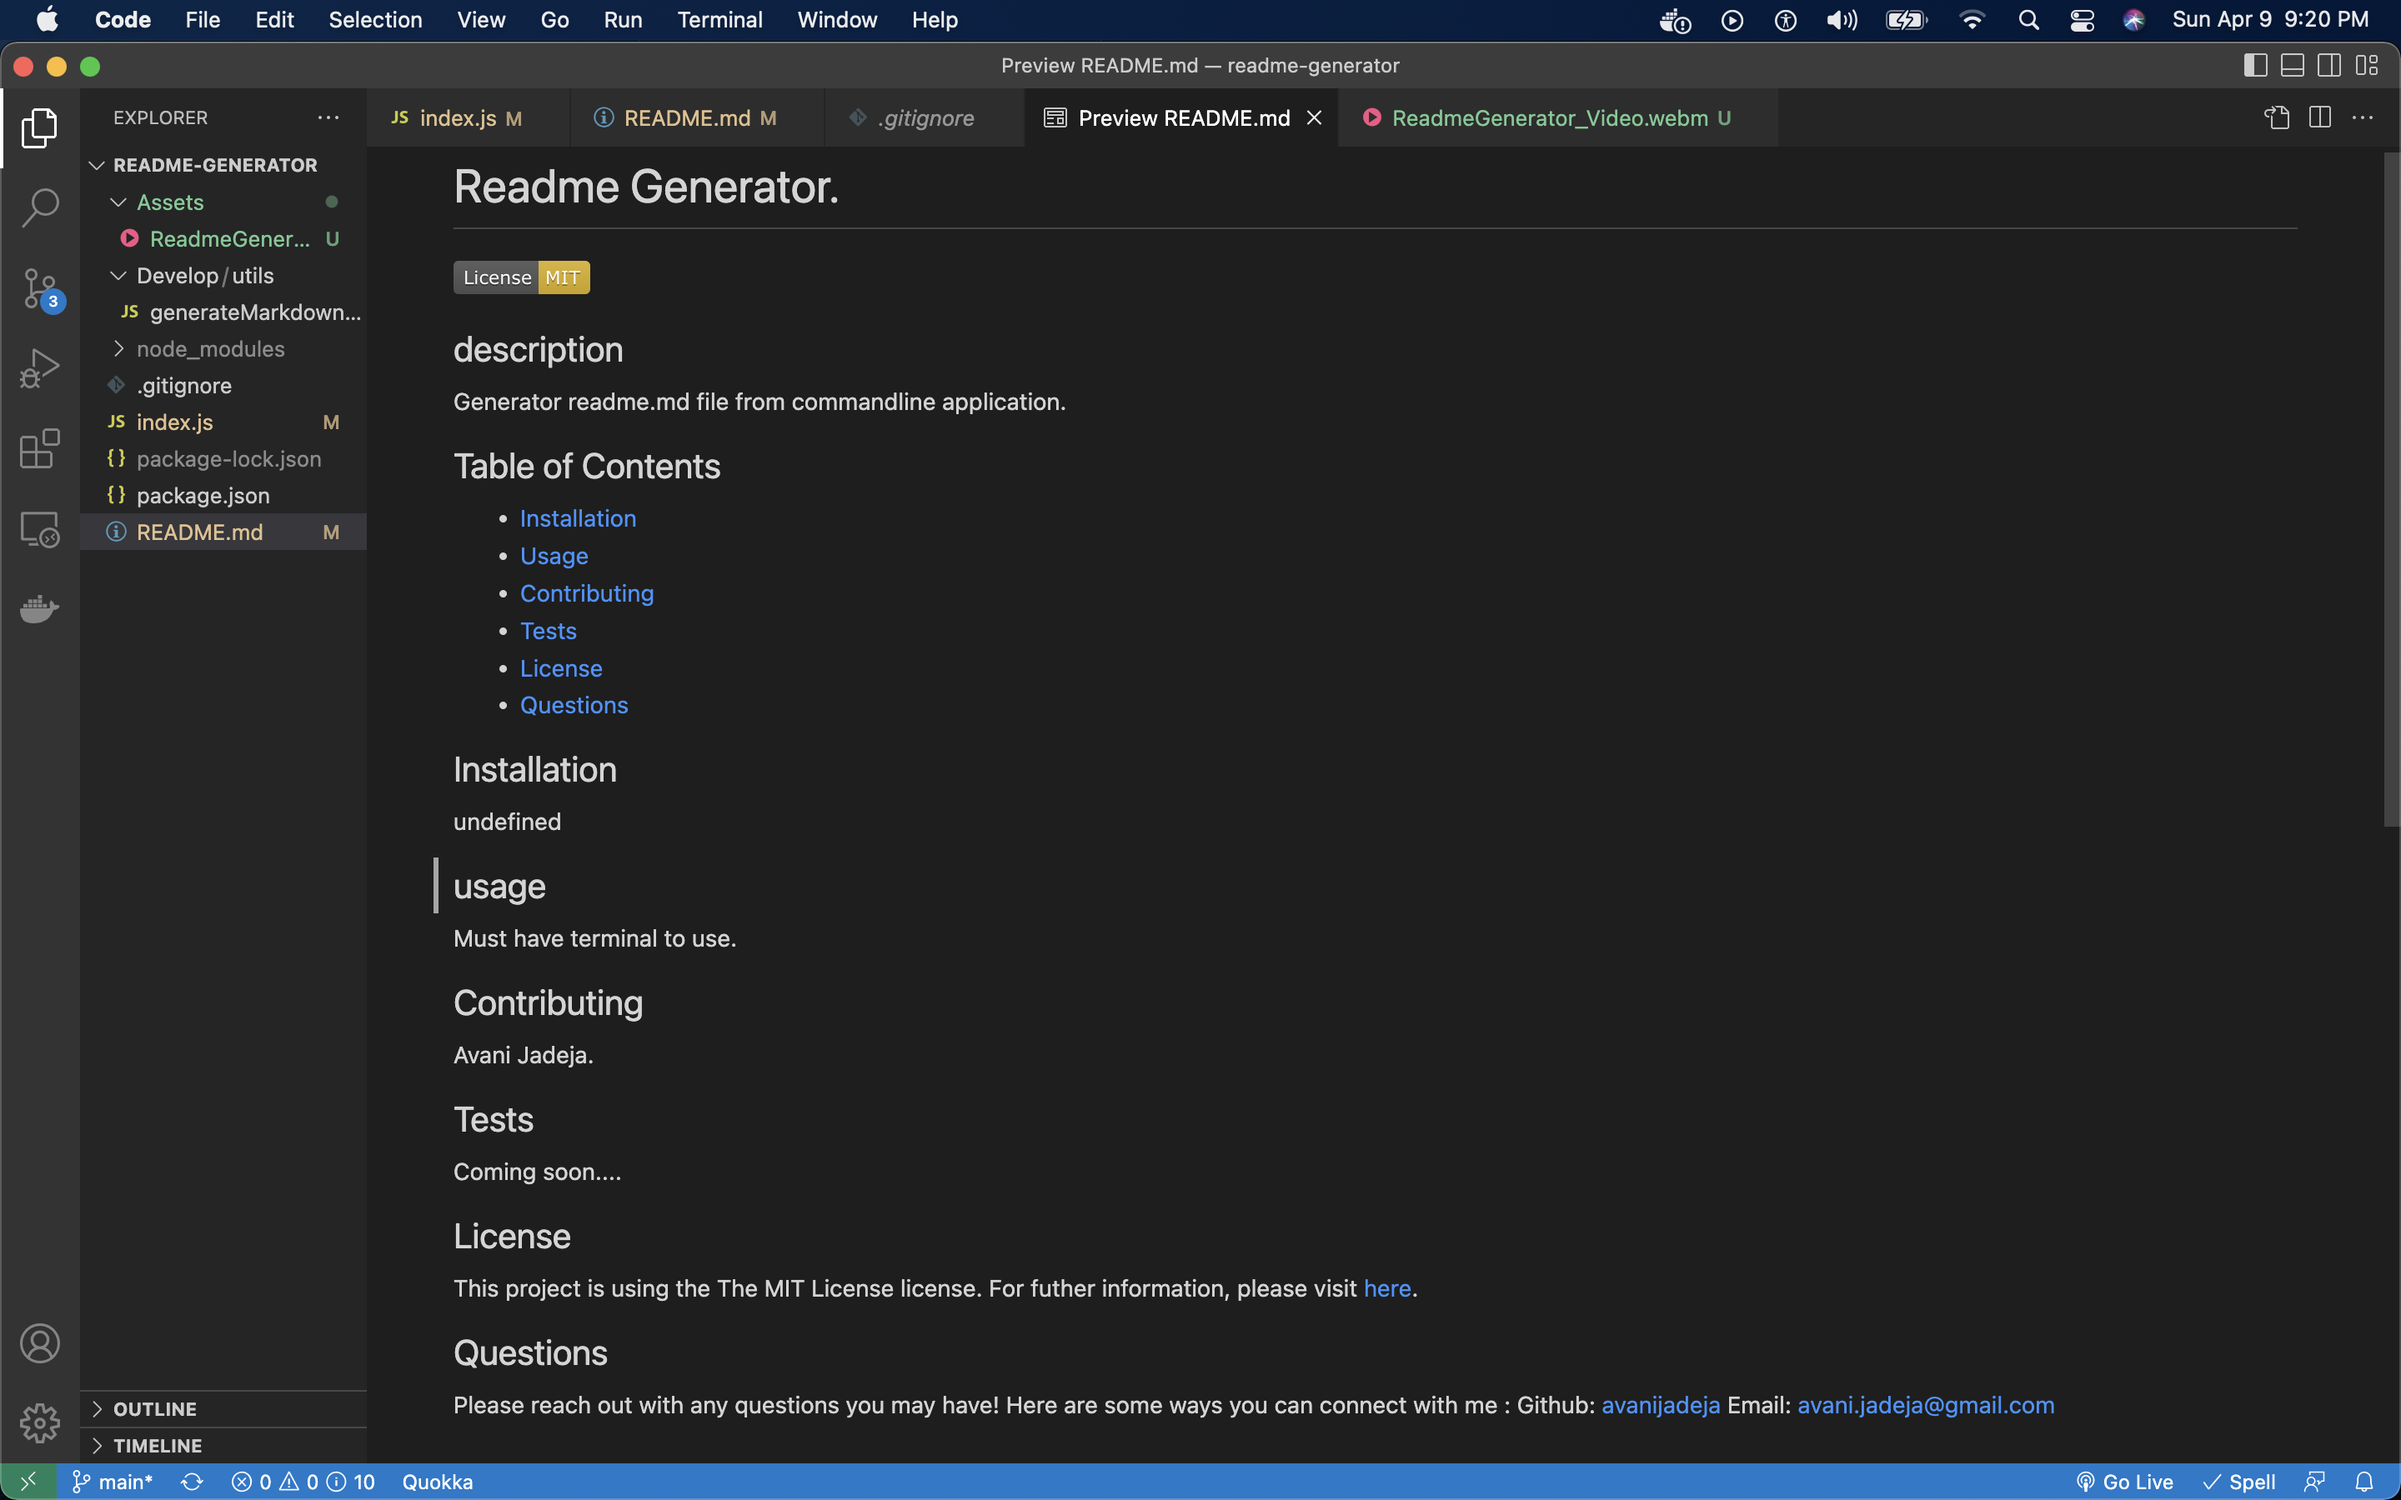
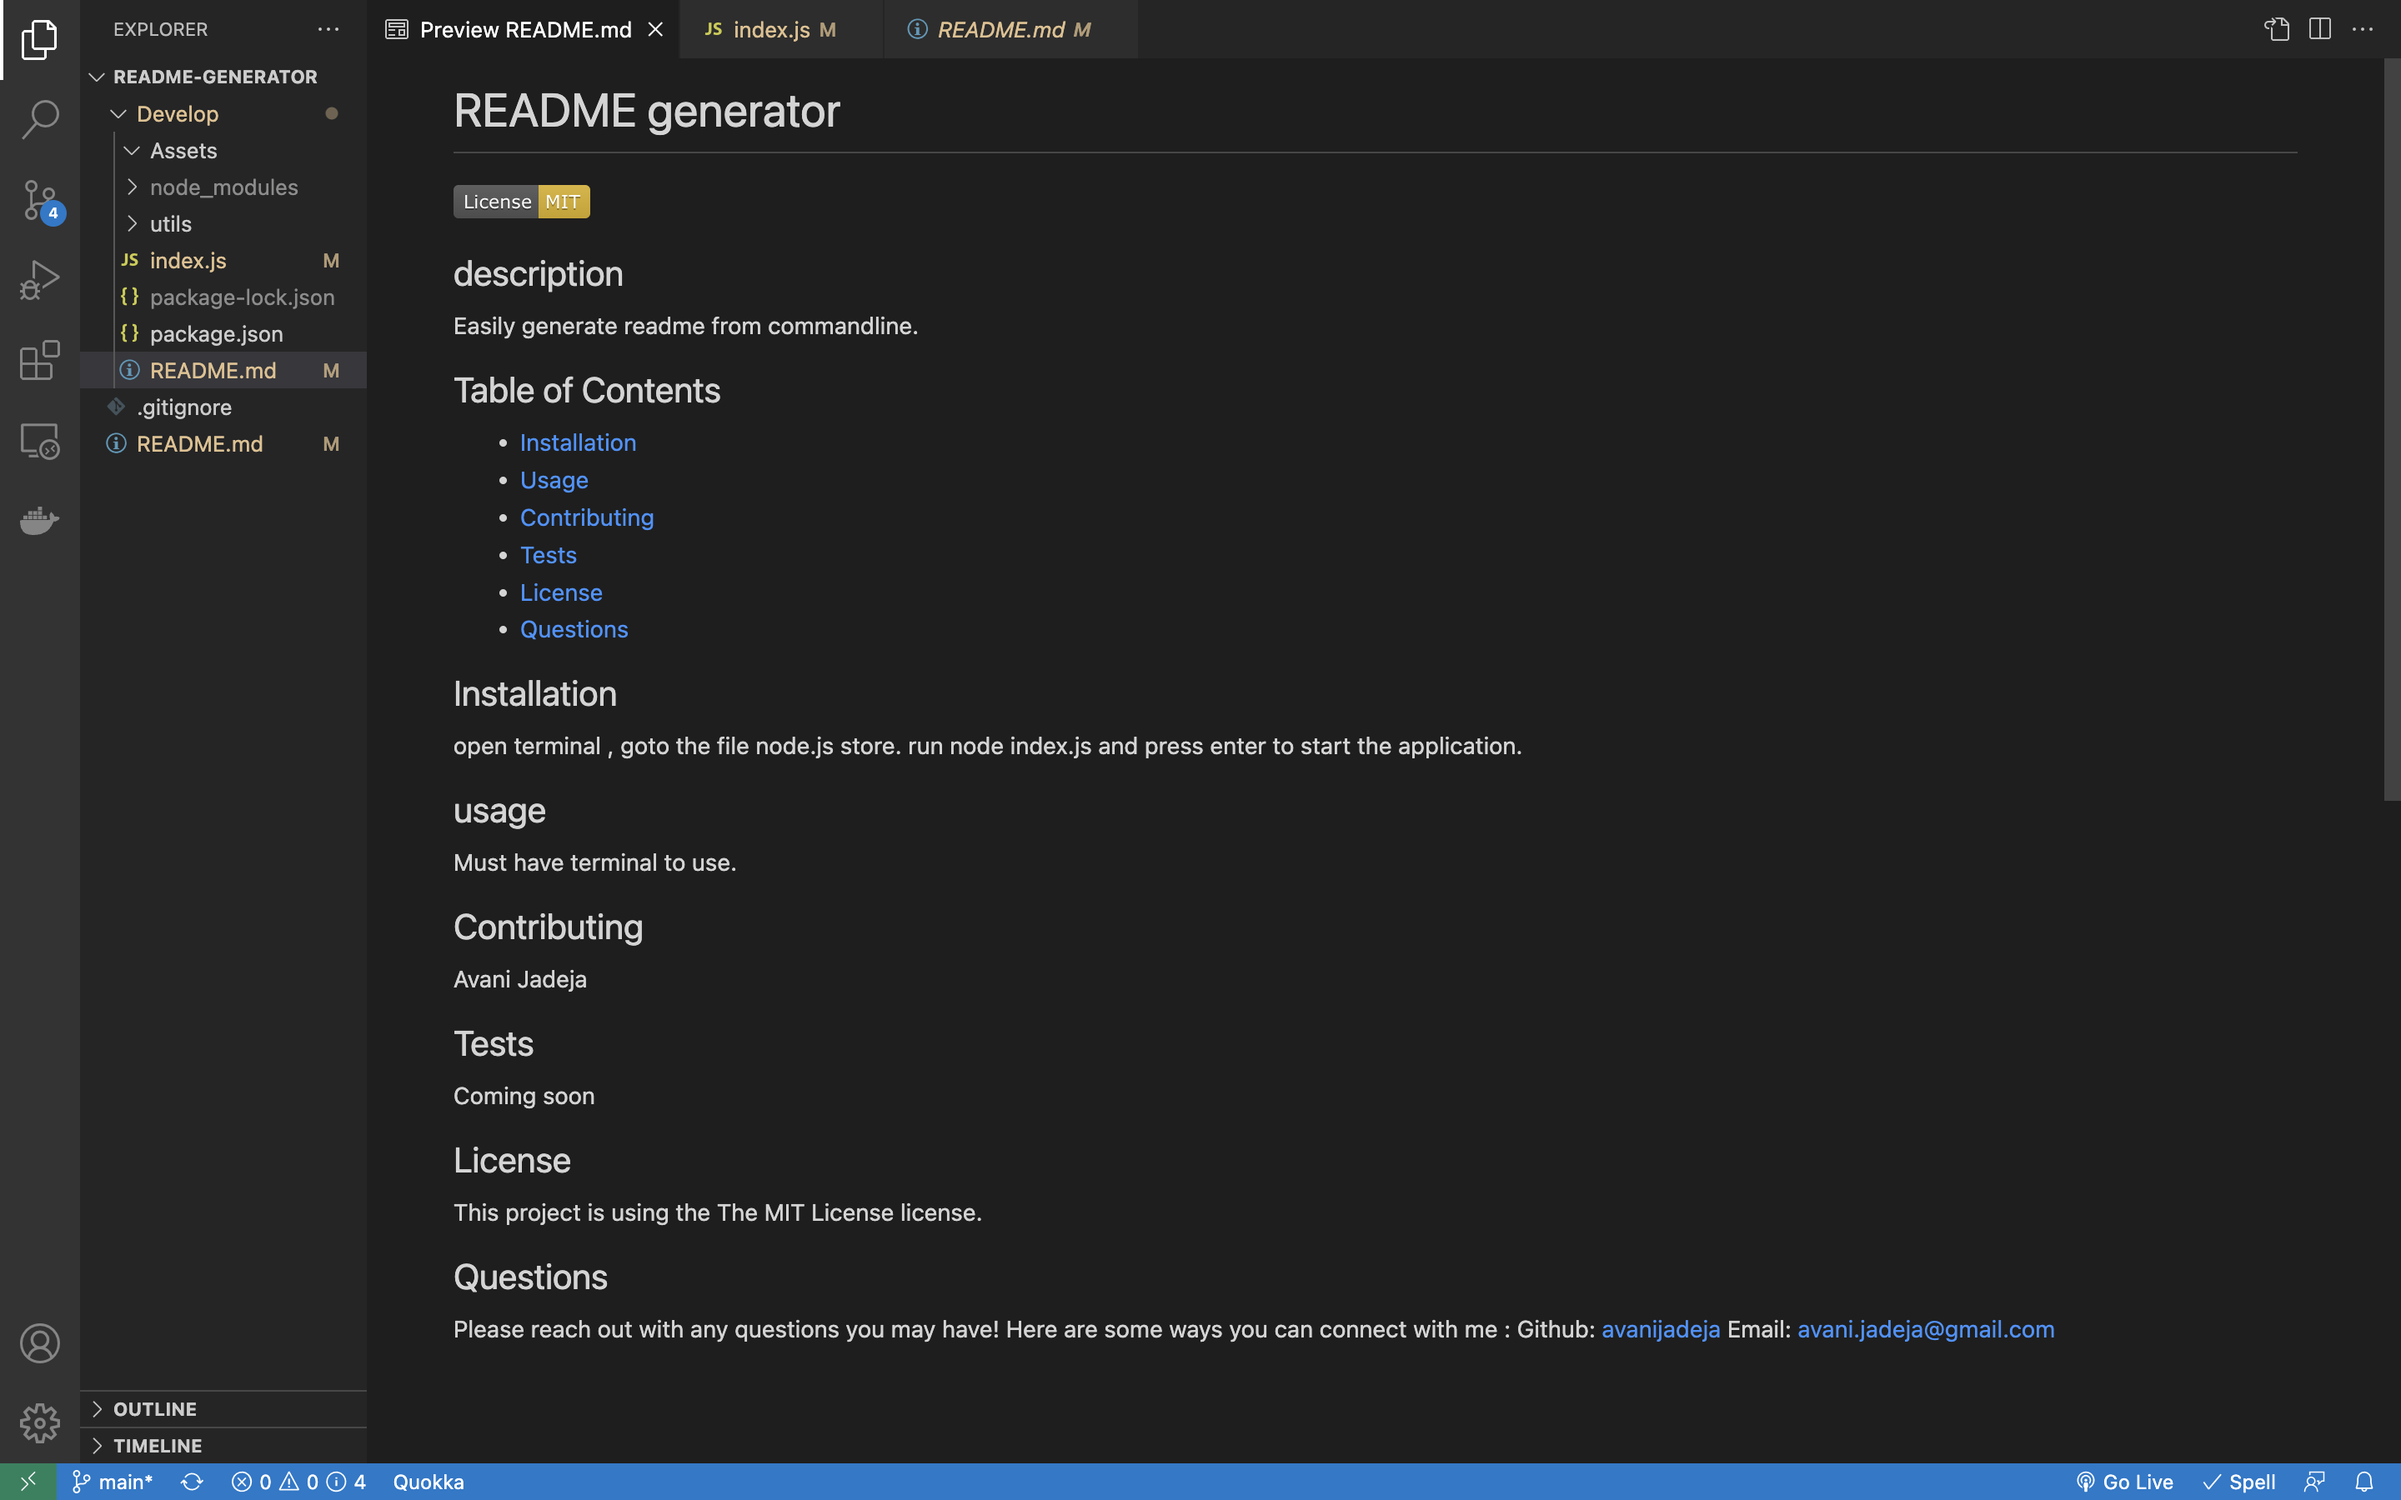
Add description to  Main readme file

diff --git a/Develop/index.js b/Develop/index.js
@@ -102,7 +102,7 @@ ${response.credits}
 ## Tests
 ${response.test}
 ## License
-This project is using the ${response.license} license. For futher information, please visit [here](https://choosealicense.com/license/).
+This project is using the ${response.license} license.
 ## Questions
 Please reach out with any questions you may have!
 Here are some ways you can connect with me :

diff --git a/README.md b/README.md
@@ -1,0 +1,41 @@
+# Professional README Generator
+
+## Description
+When creating an open source project on GitHub, it’s important to have a high-quality README for the app. This should include what the app is for, how to use the app, how to install it, how to report issues, and how to make contributions—this last part increases the likelihood that other developers will contribute to the success of the project.You can quickly and easily generate a README file by using a command-line application to generate one. This allows the project creator to devote more time working on the project.So, In this project I create a command-line application that dynamically generates a professional README.md file from a user's input using the Inquirer package.I use inquirer@8.2.4 in this project.
+
+Here as per project guideline first I clone starter code.So Main you can see Develop folder, .gitignore file and README.md file. This README.md files shows how this project works. And in Develop folder,you can see Assets folder in that I save my sample readme.md file screenshot which I generated using inquirer, and video of readme file.also you can see node_modules,utils,index.js,package-lock.json,package.json and README.md file which is generated by this application.
+
+For this project I first install inquirer module using npm i inquirer@8.2.4. to install particular version @8.2.4 of inquirer module, then when on terminal we have to run index.js file using command node index.js then on terminal using prompt method user have to answers particular questions which is related to README.md file when user answers this question then one message is appear in command line like "Readme file was successfully created". so README.md file is created.In this README.md file whatever user answers for particular question on that particular sections this answers display.As per project requirement I also added License logo on the top of readme file. for license on prompt I use choice so user have to select one of license from list.I also code for particular license their logo in generated using badgeLicense method.and using createReadme method its create README.md file. Also in README.md file when you click on any Table of Contents then user can go to that particular content.example if user click on Contributing in Table of Contents then directly user can see Contributing section.Also when user click on github link user can visit github account.So as per project requirements this project dynamically generates a professional README.md file from a user's input. 
+
+From this project I learn node.js, how to use modules of node.js, how to use prompt method, how to get data from command line and build file from this data.So I improved my knowledge in node.js.
+
+
+## Table of Contents
+
+- [Installation](#installation)
+- [Usage](#usage)
+- [Credits](#credits)
+- [License](#license)
+
+
+## installation
+here I used inquirer module so first open terminal,go to the file where the node.js file is store.run npm i inquirer@8.2.4 then, run node index.js in your terminal and press enter to start application.
+
+## usage
+Must have terminal to use.
+![screenshot of sample README.md file]()
+![video of sample README.md file]()
+
+A walkthrough video demonstrating the functionality of the application- https://drive.google.com/file/d/1yvTgNIv3KRAW5JEg1HjI3IrbktsGIz1_/view?usp=sharing
+
+The URL of the GitHub repository - https://github.com/avanijadeja/readme-generator
+
+## credits
+N/A
+
+## license
+This project is using the The MIT License license. For further information, please visit [here](https://choosealicense.com/license/).
+
+## Badges
+[![License: MIT](https://img.shields.io/badge/License-MIT-yellow.svg)](https://opensource.org/licenses/MIT)
+

diff --git a/Develop/README.md b/Develop/README.md
@@ -1,8 +1,8 @@
 
-# Readme Generator
+# README generator
 [![License: MIT](https://img.shields.io/badge/License-MIT-yellow.svg)](https://opensource.org/licenses/MIT)
 ## description
-Easily generate a readme fille by using a command line application.
+Easily generate readme from commandline.
 ## Table of Contents
 - [Installation](#installation)
 - [Usage](#usage)
@@ -11,15 +11,15 @@ Easily generate a readme fille by using a command line application.
 - [License](#license)
 - [Questions](#questions)
 ## Installation
-Open terminal, goto the file where the index.js file store, run node index.js in your terminal and press enter to start the application.
+open terminal , goto the file node.js store. run node index.js  and press enter to start the application.
 ## usage
 Must have terminal to use.
 ## Contributing
-Avani Jadeja.
+Avani Jadeja
 ## Tests
-Coming Soon...
+Coming soon
 ## License
-This project is using the The MIT License license. For futher information, please visit [here](https://choosealicense.com/license/).
+This project is using the The MIT License license.
 ## Questions
 Please reach out with any questions you may have!
 Here are some ways you can connect with me :
